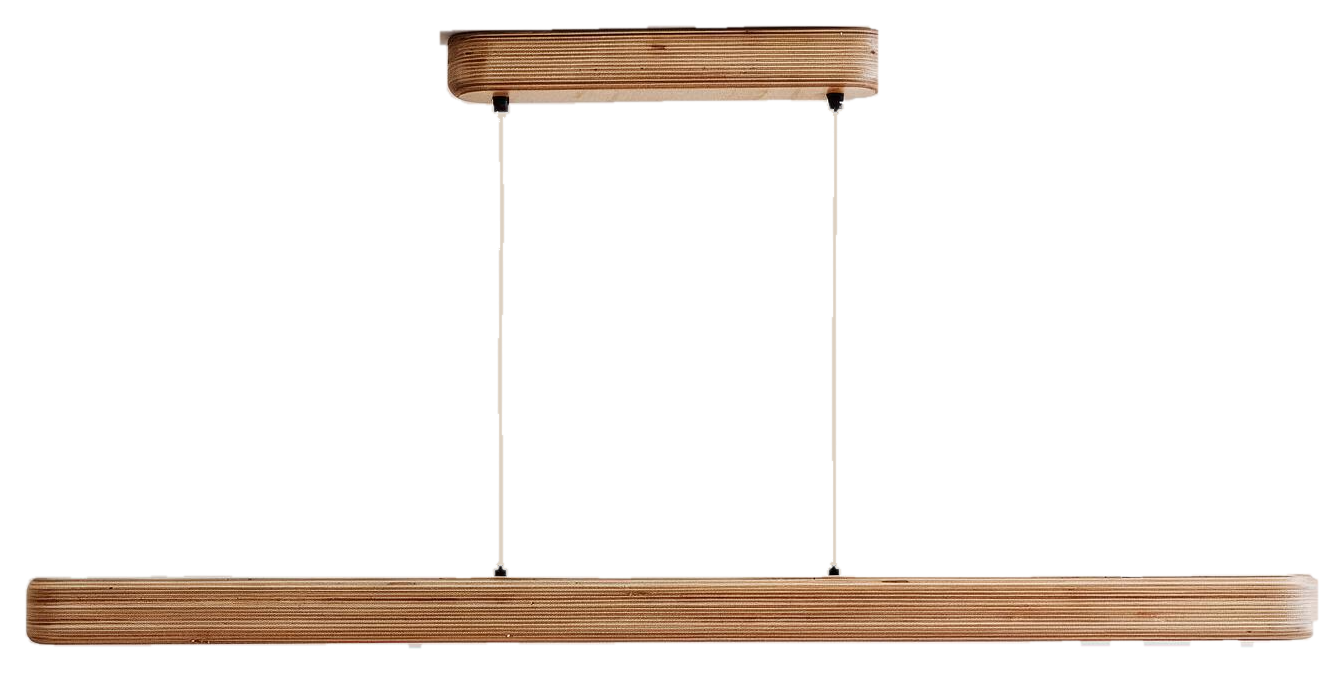
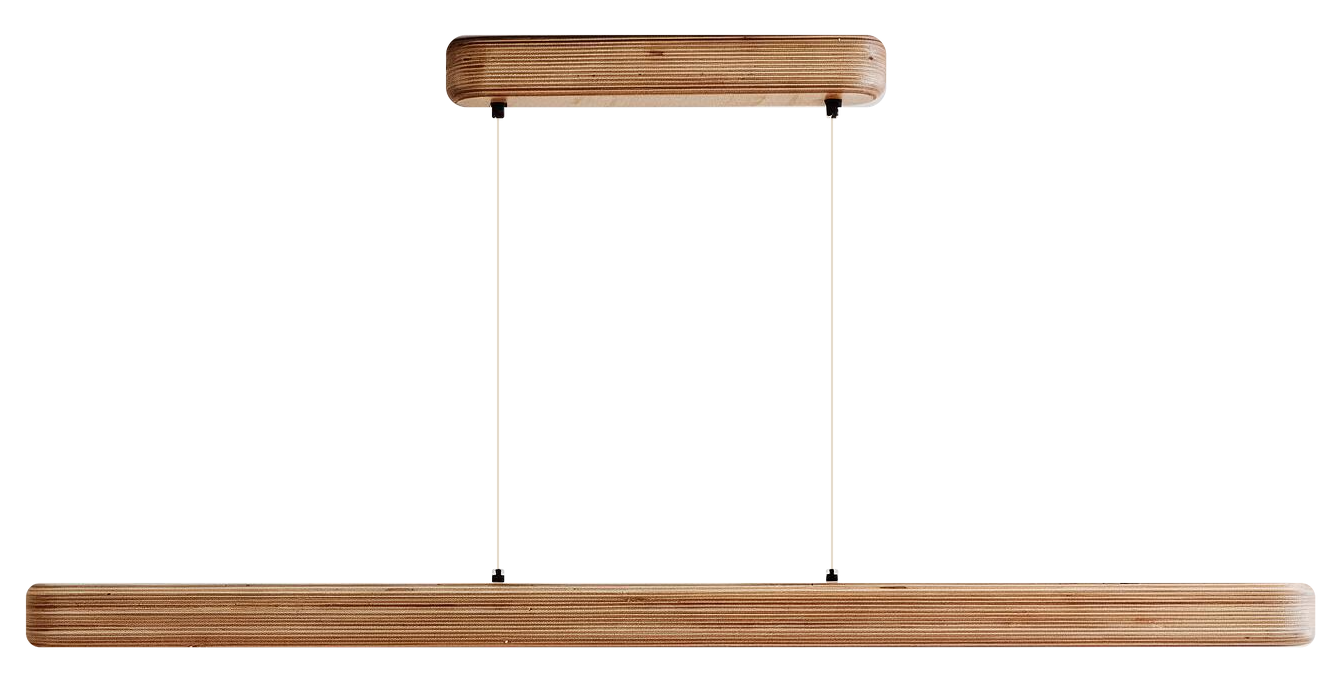
feat: original Garet font, static straight hero lamp, cart wording
- self-host Garet Book (the font of черников-бюро.рф) for all text;
  Manrope + Lora italic now only set the hero title
- rebuild lamp-cutout from the studio photo with a straight-edged mask
- hero: after the particle intro the crisp static image replaces the
  particle field, so the lamp no longer wobbles
- header: phone replaced by a cart button; «О бюро» -> «О нас»;
  «В заявку» -> «В корзину» across the request UI

Changed region(s): [[0.0, 0.5929, 1.0, 0.9673], [0.3053, 0.0312, 0.6716, 0.4993]]

diff --git a/src/components/ui/liquid-sculpture-hero.tsx b/src/components/ui/liquid-sculpture-hero.tsx
@@ -4,6 +4,8 @@ import { fitRect } from "@/lib/fit-rect"
 import { cn, prefersReducedMotion } from "@/lib/utils"
 import { DEFAULT_ENGINE_OPTIONS, LiquidEngine, type EngineOptions } from "./liquid-sculpture/engine"
 
+const SETTLE_DELAY_MS = 1200
+
 interface LiquidSculptureProps {
   /** cut-out image (transparent background) the particles assemble into */
   src: string
@@ -49,7 +51,27 @@ export function LiquidSculpture({ src, aspect, alt, rootRef, slotRef, options, o
 
     let engine: LiquidEngine | null = null
     let cancelled = false
-    const notifyAssembled = () => assembledRef.current?.()
+    // once assembled, the crisp image replaces the particle field so the lamp stays still
+    let settled = false
+    let introDone = false
+    let settleTimer = 0
+    const showImage = (on: boolean) => {
+      canvas.style.opacity = on ? "0" : "1"
+      if (imgRef.current) imgRef.current.style.opacity = on ? "1" : "0"
+    }
+    const settle = () => {
+      if (cancelled || stage.dataset.gl !== "on") return
+      settled = true
+      showImage(true)
+      engine?.setVisible(false)
+    }
+    const notifyAssembled = () => {
+      assembledRef.current?.()
+      introDone = true
+      // the engine reports "done" at ~82% of the assembly; let the last particles land first
+      window.clearTimeout(settleTimer)
+      settleTimer = window.setTimeout(settle, SETTLE_DELAY_MS)
+    }
     const fail = () => {
       stage.dataset.gl = "off"
       canvas.style.opacity = "0"
@@ -62,7 +84,18 @@ export function LiquidSculpture({ src, aspect, alt, rootRef, slotRef, options, o
     } catch {
       fail()
     }
-    if (controlRef) controlRef.current = { replay: () => engine?.replayIntro() }
+    if (controlRef)
+      controlRef.current = {
+        replay: () => {
+          if (!engine || stage.dataset.gl !== "on") return
+          window.clearTimeout(settleTimer)
+          settled = false
+          introDone = false
+          showImage(false)
+          engine.setVisible(!document.hidden)
+          engine.replayIntro()
+        },
+      }
 
     const relayout = () => {
       const rect = fitRect(root, slot, aspect)
@@ -76,10 +109,12 @@ export function LiquidSculpture({ src, aspect, alt, rootRef, slotRef, options, o
     ro.observe(slot)
 
     const io = new IntersectionObserver((entries) => {
-      for (const e of entries) engine?.setVisible(e.isIntersecting && !document.hidden)
+      for (const e of entries) if (!settled) engine?.setVisible(e.isIntersecting && !document.hidden)
     })
     io.observe(root)
-    const onVisibility = () => engine?.setVisible(!document.hidden)
+    const onVisibility = () => {
+      if (!settled) engine?.setVisible(!document.hidden)
+    }
     document.addEventListener("visibilitychange", onVisibility)
 
     const pos = (e: PointerEvent) => {
@@ -87,12 +122,14 @@ export function LiquidSculpture({ src, aspect, alt, rootRef, slotRef, options, o
       return [e.clientX - b.left, e.clientY - b.top] as const
     }
     const onMove = (e: PointerEvent) => {
+      if (settled) return
       const touch = e.pointerType === "touch"
       if (touch && e.buttons === 0 && e.pressure === 0) return
       const [x, y] = pos(e)
       engine?.pointer("move", x, y, touch)
     }
     const onDown = (e: PointerEvent) => {
+      if (settled) return
       const [x, y] = pos(e)
       engine?.pointer("down", x, y, e.pointerType === "touch")
     }
@@ -119,6 +156,8 @@ export function LiquidSculpture({ src, aspect, alt, rootRef, slotRef, options, o
           if (cancelled) return
           stage.dataset.gl = "on"
           canvas.style.opacity = "1"
+          // reduced motion: the intro was skipped before the first frame
+          if (introDone) settleTimer = window.setTimeout(settle, SETTLE_DELAY_MS)
         }
         try {
           relayout()
@@ -133,6 +172,7 @@ export function LiquidSculpture({ src, aspect, alt, rootRef, slotRef, options, o
 
     return () => {
       cancelled = true
+      window.clearTimeout(settleTimer)
       ro.disconnect()
       io.disconnect()
       document.removeEventListener("visibilitychange", onVisibility)

diff --git a/src/components/sections/hero.tsx b/src/components/sections/hero.tsx
@@ -9,10 +9,10 @@ import { whatsappHref } from "@/lib/leads"
 import { useScrollTo } from "@/lib/smooth-scroll"
 import { asset, cn } from "@/lib/utils"
 
-/** public/hero/lamp-cutout.webp: Rounded Plywood 800 keyed off its studio photo (1343 × 673) */
+/** public/hero/lamp-cutout.webp: Rounded Plywood 800 cut from its studio photo with a straight-edged mask (1343 × 673) */
 const LAMP_SRC = asset("hero/lamp-cutout.webp")
 const LAMP_ASPECT = 1343 / 673
-const LAMP_BAR: LampBar = { x0: 0.0194, x1: 0.9806, y0: 0.841, y1: 0.9614 }
+const LAMP_BAR: LampBar = { x0: 0.0194, x1: 0.9792, y0: 0.8663, y1: 0.9614 }
 
 const SCULPTURE_OPTIONS = {
   density: 1.25,
@@ -35,13 +35,8 @@ export function Hero() {
   const slotRef = React.useRef<HTMLDivElement>(null)
   const controlRef = React.useRef<{ replay: () => void } | null>(null)
   const [assembled, setAssembled] = React.useState(false)
-  const [isTouch, setIsTouch] = React.useState(false)
   const scrollTo = useScrollTo()
   const handleAssembled = React.useCallback(() => setAssembled(true), [])
-
-  React.useEffect(() => {
-    setIsTouch(window.matchMedia("(hover: none), (pointer: coarse)").matches)
-  }, [])
 
   const replay = () => {
     setAssembled(false)
@@ -93,10 +88,10 @@ export function Hero() {
             trigger="mount"
             delay={700}
             stagger={70}
-            className="text-[clamp(44px,7.4vw,112px)] leading-[0.95] font-medium tracking-[-0.045em]"
+            className="font-display text-[clamp(44px,7.4vw,112px)] leading-[0.95] font-medium tracking-[-0.045em]"
             segments={[
               { text: "Свет, собранный" },
-              { text: "из дерева", breakBefore: true, className: "font-serif font-normal italic tracking-[-0.03em] text-glow" },
+              { text: "из дерева", breakBefore: true, className: "font-display-serif font-normal italic tracking-[-0.03em] text-glow" },
             ]}
           />
           <RevealWords
@@ -133,7 +128,7 @@ export function Hero() {
           </dl>
           <div className="flex items-center justify-center gap-3 font-mono text-[11px] tracking-[0.14em] text-on-night-muted uppercase">
             <span className="size-1.5 animate-[pulse-dot_2.4s_ease-in-out_infinite] rounded-full bg-glow" />
-            {isTouch ? "Коснитесь светильника" : "Проведите курсором по светильнику"}
+            Собран из частиц дерева
             <button
               type="button"
               onClick={replay}

diff --git a/src/components/sections/contact.tsx b/src/components/sections/contact.tsx
@@ -89,7 +89,7 @@ export function Contact() {
               {count > 0 && (
                 <div className="flex items-center justify-between gap-4 rounded-lg border border-glow/25 bg-glow/[0.06] px-4 py-3 text-sm">
                   <span>
-                    В заявке {count} {count === 1 ? "позиция" : count < 5 ? "позиции" : "позиций"} · <span className="font-mono">{formatPrice(total)}</span>
+                    В корзине {count} {count === 1 ? "позиция" : count < 5 ? "позиции" : "позиций"} · <span className="font-mono">{formatPrice(total)}</span>
                   </span>
                   <button type="button" onClick={() => setOpen(true)} className="cursor-pointer text-glow-soft underline-offset-4 hover:underline">
                     Изменить
@@ -150,7 +150,7 @@ export function Contact() {
               <button type="button" onClick={() => setStatus("idle")} className="mt-6 cursor-pointer text-sm text-on-night/60 underline-offset-4 hover:underline">
                 Вернуться к форме
               </button>
-              {lines.length > 0 && <p className="sr-only">Позиций в заявке: {count}</p>}
+              {lines.length > 0 && <p className="sr-only">Позиций в корзине: {count}</p>}
             </div>
           )}
         </GlowCard>

diff --git a/src/components/sections/site-header.tsx b/src/components/sections/site-header.tsx
@@ -1,9 +1,9 @@
 import * as React from "react"
-import { Menu, Phone } from "lucide-react"
+import { Menu, ShoppingBag } from "lucide-react"
 
 import { Button } from "@/components/ui/button"
 import { Logo } from "@/components/ui/logo"
-import { CONTACTS, NAV } from "@/data/site"
+import { NAV } from "@/data/site"
 import { useRequest } from "@/lib/request-store"
 import { useScrollTo } from "@/lib/smooth-scroll"
 import { cn } from "@/lib/utils"
@@ -98,12 +98,9 @@ export function SiteHeader() {
         </nav>
 
         <div className="flex items-center gap-2">
-          <a href={CONTACTS.phoneHref} className="hidden items-center gap-2 px-2 font-mono text-[13px] opacity-80 transition hover:opacity-100 xl:flex">
-            <Phone className="size-3.5" />
-            {CONTACTS.phoneDisplay}
-          </a>
-          <Button variant={onDark ? "night" : "outline"} size="sm" onClick={() => setOpen(true)} aria-label={`Заявка, позиций: ${count}`}>
-            Заявка
+          <Button variant={onDark ? "night" : "outline"} size="sm" onClick={() => setOpen(true)} aria-label={`Корзина, позиций: ${count}`}>
+            <ShoppingBag />
+            <span className="hidden sm:inline">Корзина</span>
             <span
               key={addedTick}
               className={cn(

diff --git a/src/index.css b/src/index.css
@@ -1,10 +1,16 @@
 @import "tailwindcss";
 @import "tw-animate-css";
+/* Manrope + Lora italic only set the hero title; everything else uses Garet, as on черников-бюро.рф */
 @import "@fontsource-variable/manrope";
-@import "@fontsource-variable/lora";
 @import "@fontsource-variable/lora/wght-italic.css";
-@import "@fontsource/ibm-plex-mono/400.css";
-@import "@fontsource/ibm-plex-mono/500.css";
+
+@font-face {
+  font-family: "Garet";
+  src: url("./assets/fonts/Garet-Book.woff2") format("woff2");
+  font-weight: 400;
+  font-style: normal;
+  font-display: swap;
+}
 
 @custom-variant dark (&:is(.dark *));
 
@@ -97,9 +103,11 @@
   --color-on-night: var(--on-night);
   --color-on-night-muted: var(--on-night-muted);
 
-  --font-sans: "Manrope Variable", "Helvetica Neue", Arial, sans-serif;
-  --font-serif: "Lora Variable", Georgia, serif;
-  --font-mono: "IBM Plex Mono", ui-monospace, monospace;
+  --font-sans: "Garet", Arial, sans-serif;
+  --font-serif: "Garet", Arial, sans-serif;
+  --font-mono: "Garet", Arial, sans-serif;
+  --font-display: "Manrope Variable", "Helvetica Neue", Arial, sans-serif;
+  --font-display-serif: "Lora Variable", Georgia, serif;
 
   --radius-sm: calc(var(--radius) - 1px);
   --radius-md: var(--radius);

diff --git a/src/components/sections/request-toast.tsx b/src/components/sections/request-toast.tsx
@@ -18,7 +18,7 @@ export function RequestToast() {
     <div aria-live="polite" className="pointer-events-none fixed inset-x-0 bottom-5 z-40 flex justify-center px-4">
       {visible && (
         <div className="pointer-events-auto flex animate-in items-center gap-4 rounded-full bg-night py-2 pr-2 pl-5 text-sm text-on-night shadow-2xl duration-500 fade-in slide-in-from-bottom-4">
-          Добавлено в заявку · {count}
+          Добавлено в корзину · {count}
           <button type="button" onClick={() => setOpen(true)} className="btn-ember cursor-pointer rounded-full px-4 py-2 text-xs font-semibold">
             Открыть
           </button>

diff --git a/src/components/sections/product-card.tsx b/src/components/sections/product-card.tsx
@@ -67,7 +67,7 @@ export function ProductCard({ product, index }: ProductCardProps) {
             "absolute top-3 right-3 z-[4] grid size-10 cursor-pointer place-items-center rounded-full shadow-md backdrop-blur transition duration-300",
             justAdded ? "bg-ember text-night" : "bg-card/90 text-foreground hover:bg-foreground hover:text-background"
           )}
-          aria-label={`Добавить ${product.title} в заявку`}
+          aria-label={`Добавить ${product.title} в корзину`}
         >
           {justAdded ? <Check className="size-4" /> : <Plus className="size-4" />}
         </button>

diff --git a/src/components/sections/request-sheet.tsx b/src/components/sections/request-sheet.tsx
@@ -22,7 +22,7 @@ export function RequestSheet() {
     <Sheet open={isOpen} onOpenChange={setOpen}>
       <SheetContent>
         <div className="border-b px-6 pt-6 pb-5">
-          <SheetTitle>Заявка</SheetTitle>
+          <SheetTitle>Корзина</SheetTitle>
           <SheetDescription>Соберите позиции — мы подтвердим цену, сроки и доставку.</SheetDescription>
         </div>
 

diff --git a/src/components/sections/statement.tsx b/src/components/sections/statement.tsx
@@ -13,7 +13,7 @@ export function Statement() {
       <div className="mx-auto grid max-w-[1440px] gap-14 lg:grid-cols-12">
         <div className="lg:col-span-9">
           <h2 id="about-title" className="eyebrow mb-10 text-muted-foreground">
-            О бюро
+            О нас
           </h2>
           <RevealWords
             className="text-[clamp(28px,3.6vw,54px)] leading-[1.12] font-medium tracking-[-0.03em]"

diff --git a/src/data/site.ts b/src/data/site.ts
@@ -34,7 +34,7 @@ export const NAV: readonly NavLink[] = [
   { label: "Каталог", href: "#catalog" },
   { label: "Интерьеры", href: "#interiors" },
   { label: "Умный свет", href: "#light" },
-  { label: "О бюро", href: "#about" },
+  { label: "О нас", href: "#about" },
   { label: "Как заказать", href: "#process" },
   { label: "Контакты", href: "#contact" },
 ]

diff --git a/src/components/sections/product-dialog-view.tsx b/src/components/sections/product-dialog-view.tsx
@@ -159,7 +159,7 @@ function ProductDetails({ product, onAdded }: { product: Product; onAdded: () =>
                 onAdded()
               }}
             >
-              <Plus /> В заявку
+              <Plus /> В корзину
             </Button>
             <Button variant="outline" size="lg" asChild>
               <a href={whatsappHref(askText)} target="_blank" rel="noopener noreferrer">
